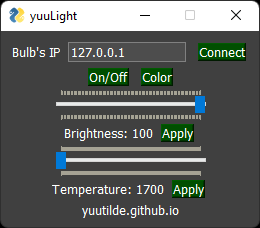
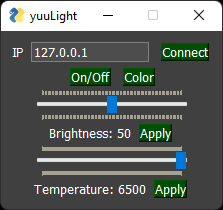
upd

diff --git a/yuulight.py b/yuulight.py
@@ -15,7 +15,7 @@ def main():
 
     layout = [
         [
-            Sg.Text("Bulb's IP"),
+            Sg.Text("IP"),
             Sg.InputText(default_text=ip),
             Sg.Button("Connect"),
         ],
@@ -50,14 +50,10 @@ def main():
             Sg.Text("0", key="TemperatureText"),
             Sg.Button("Apply", key="TemperatureApply"),
         ],
-        [Sg.Text("yuutilde.github.io")],
     ]
 
     window = Sg.Window(
-        "yuuLight",
-        layout,
-        element_justification="center",
-        resizable=False
+        "yuuLight", layout, element_justification="center", resizable=False
     )
 
     while True:
